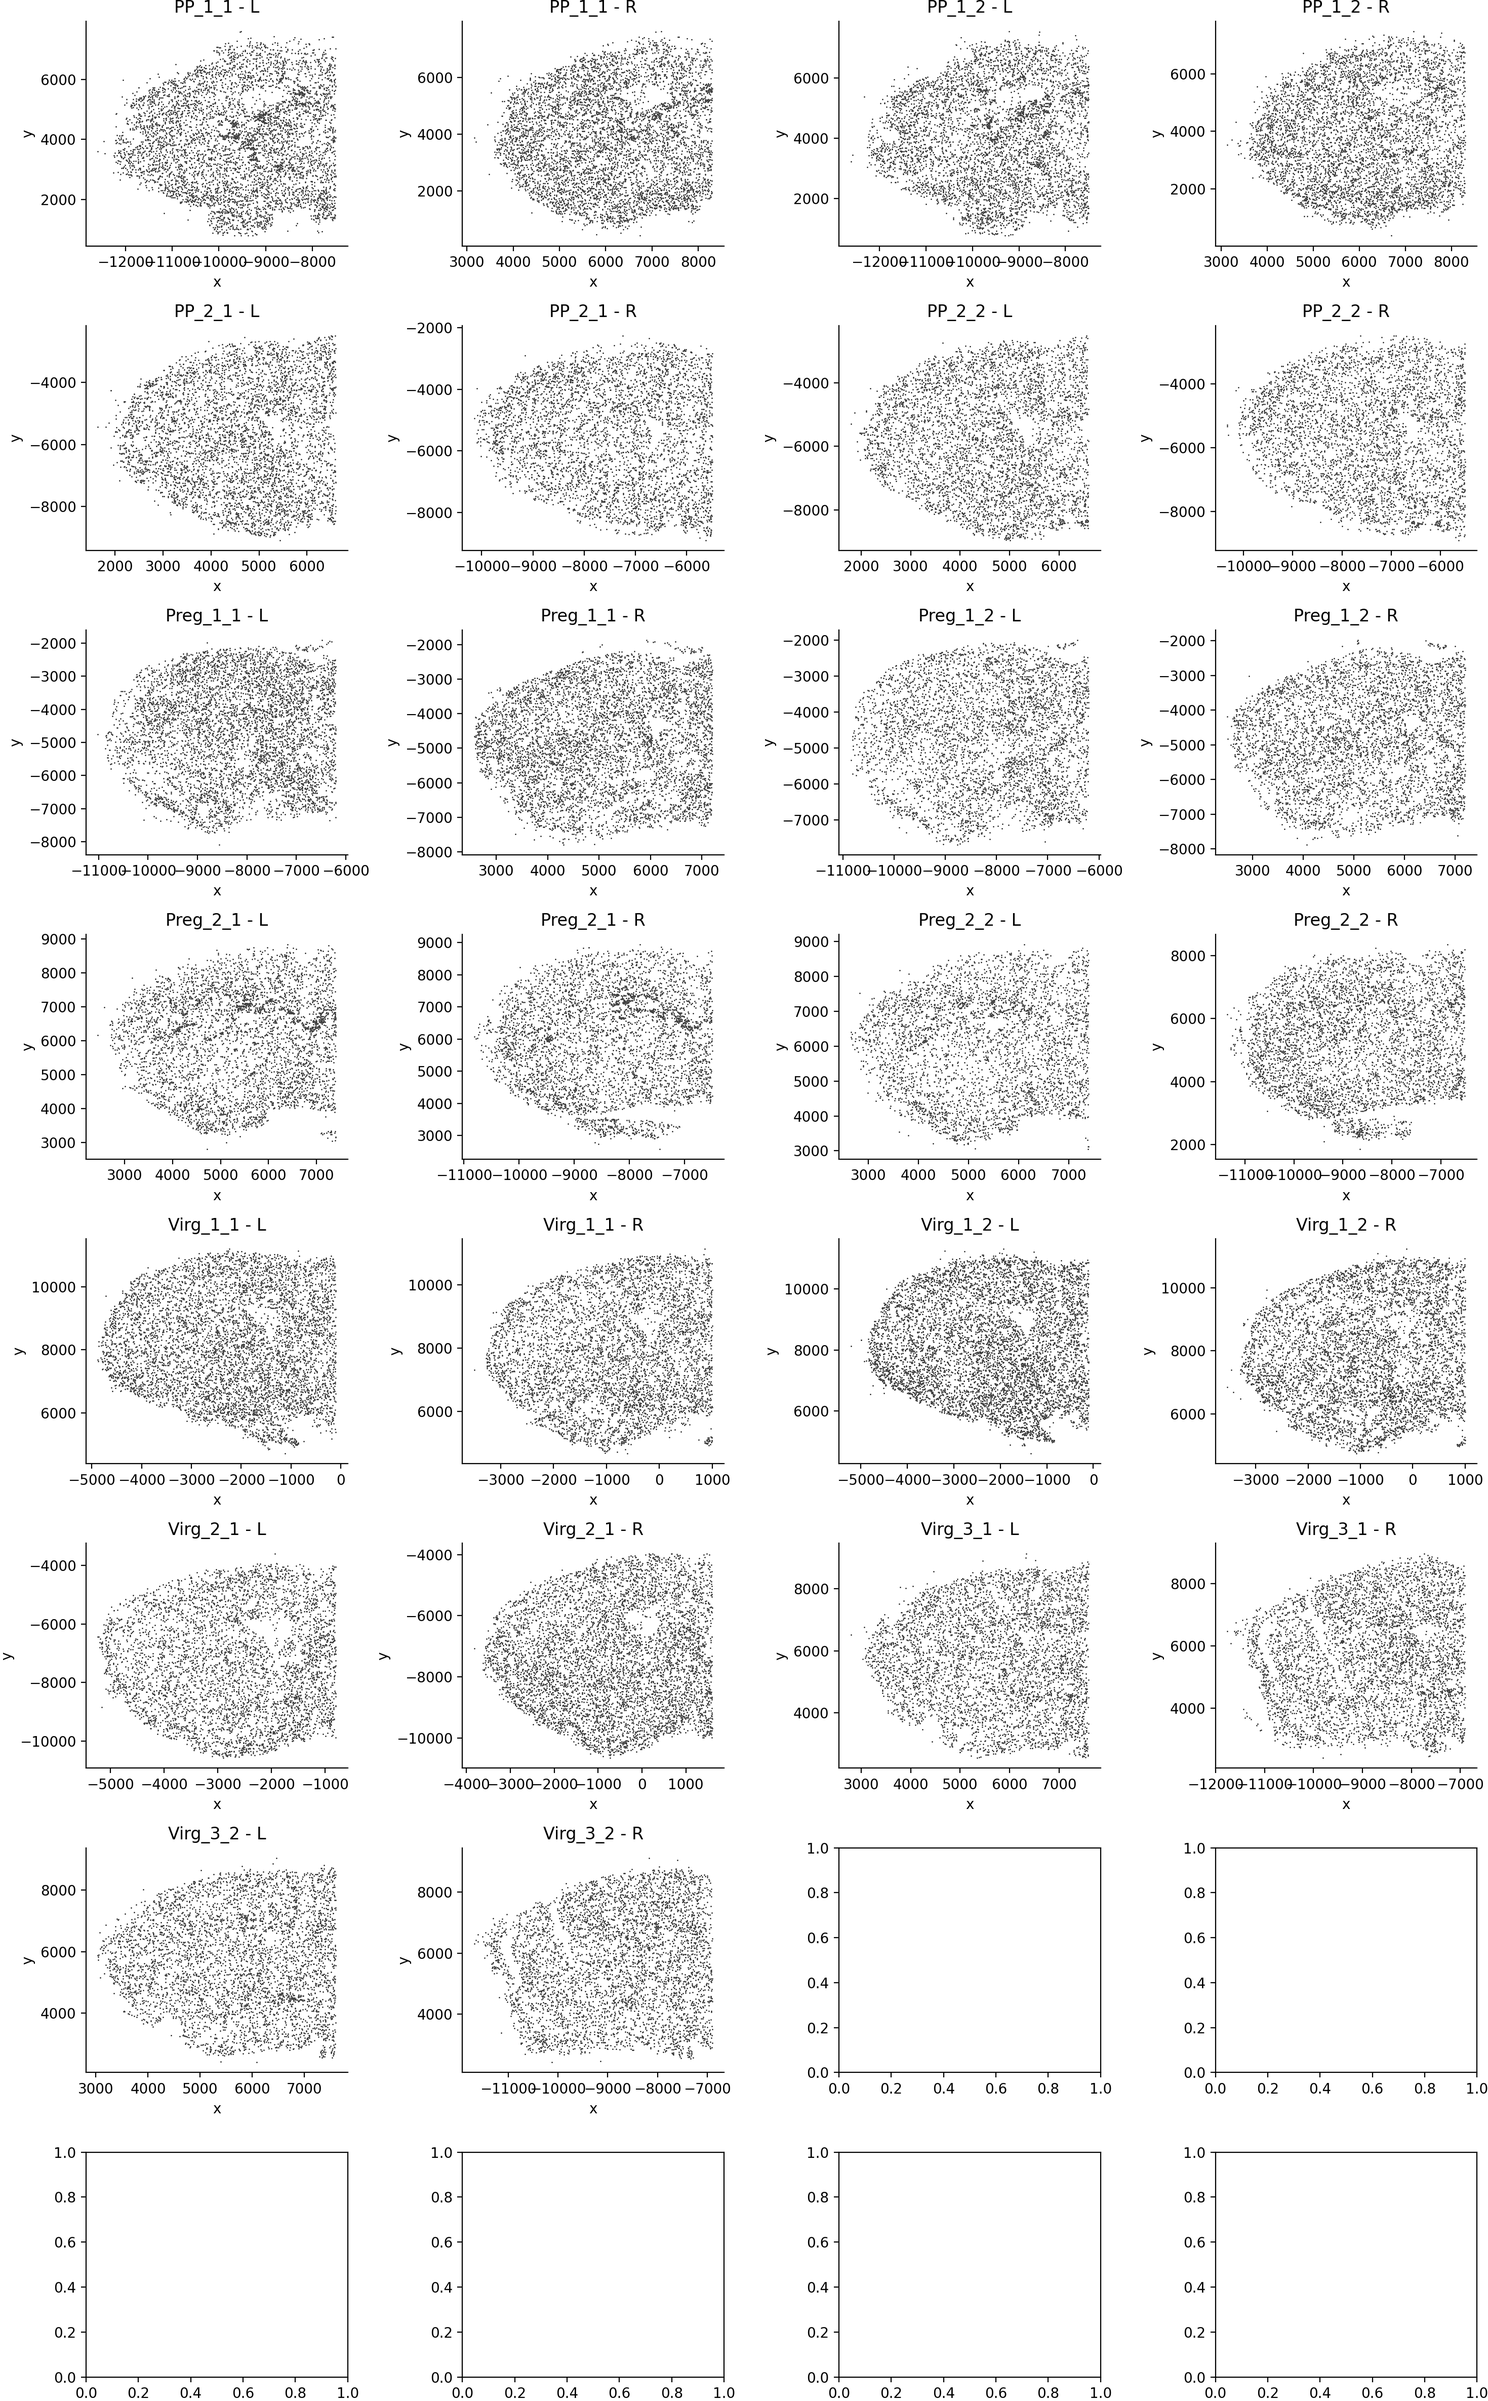
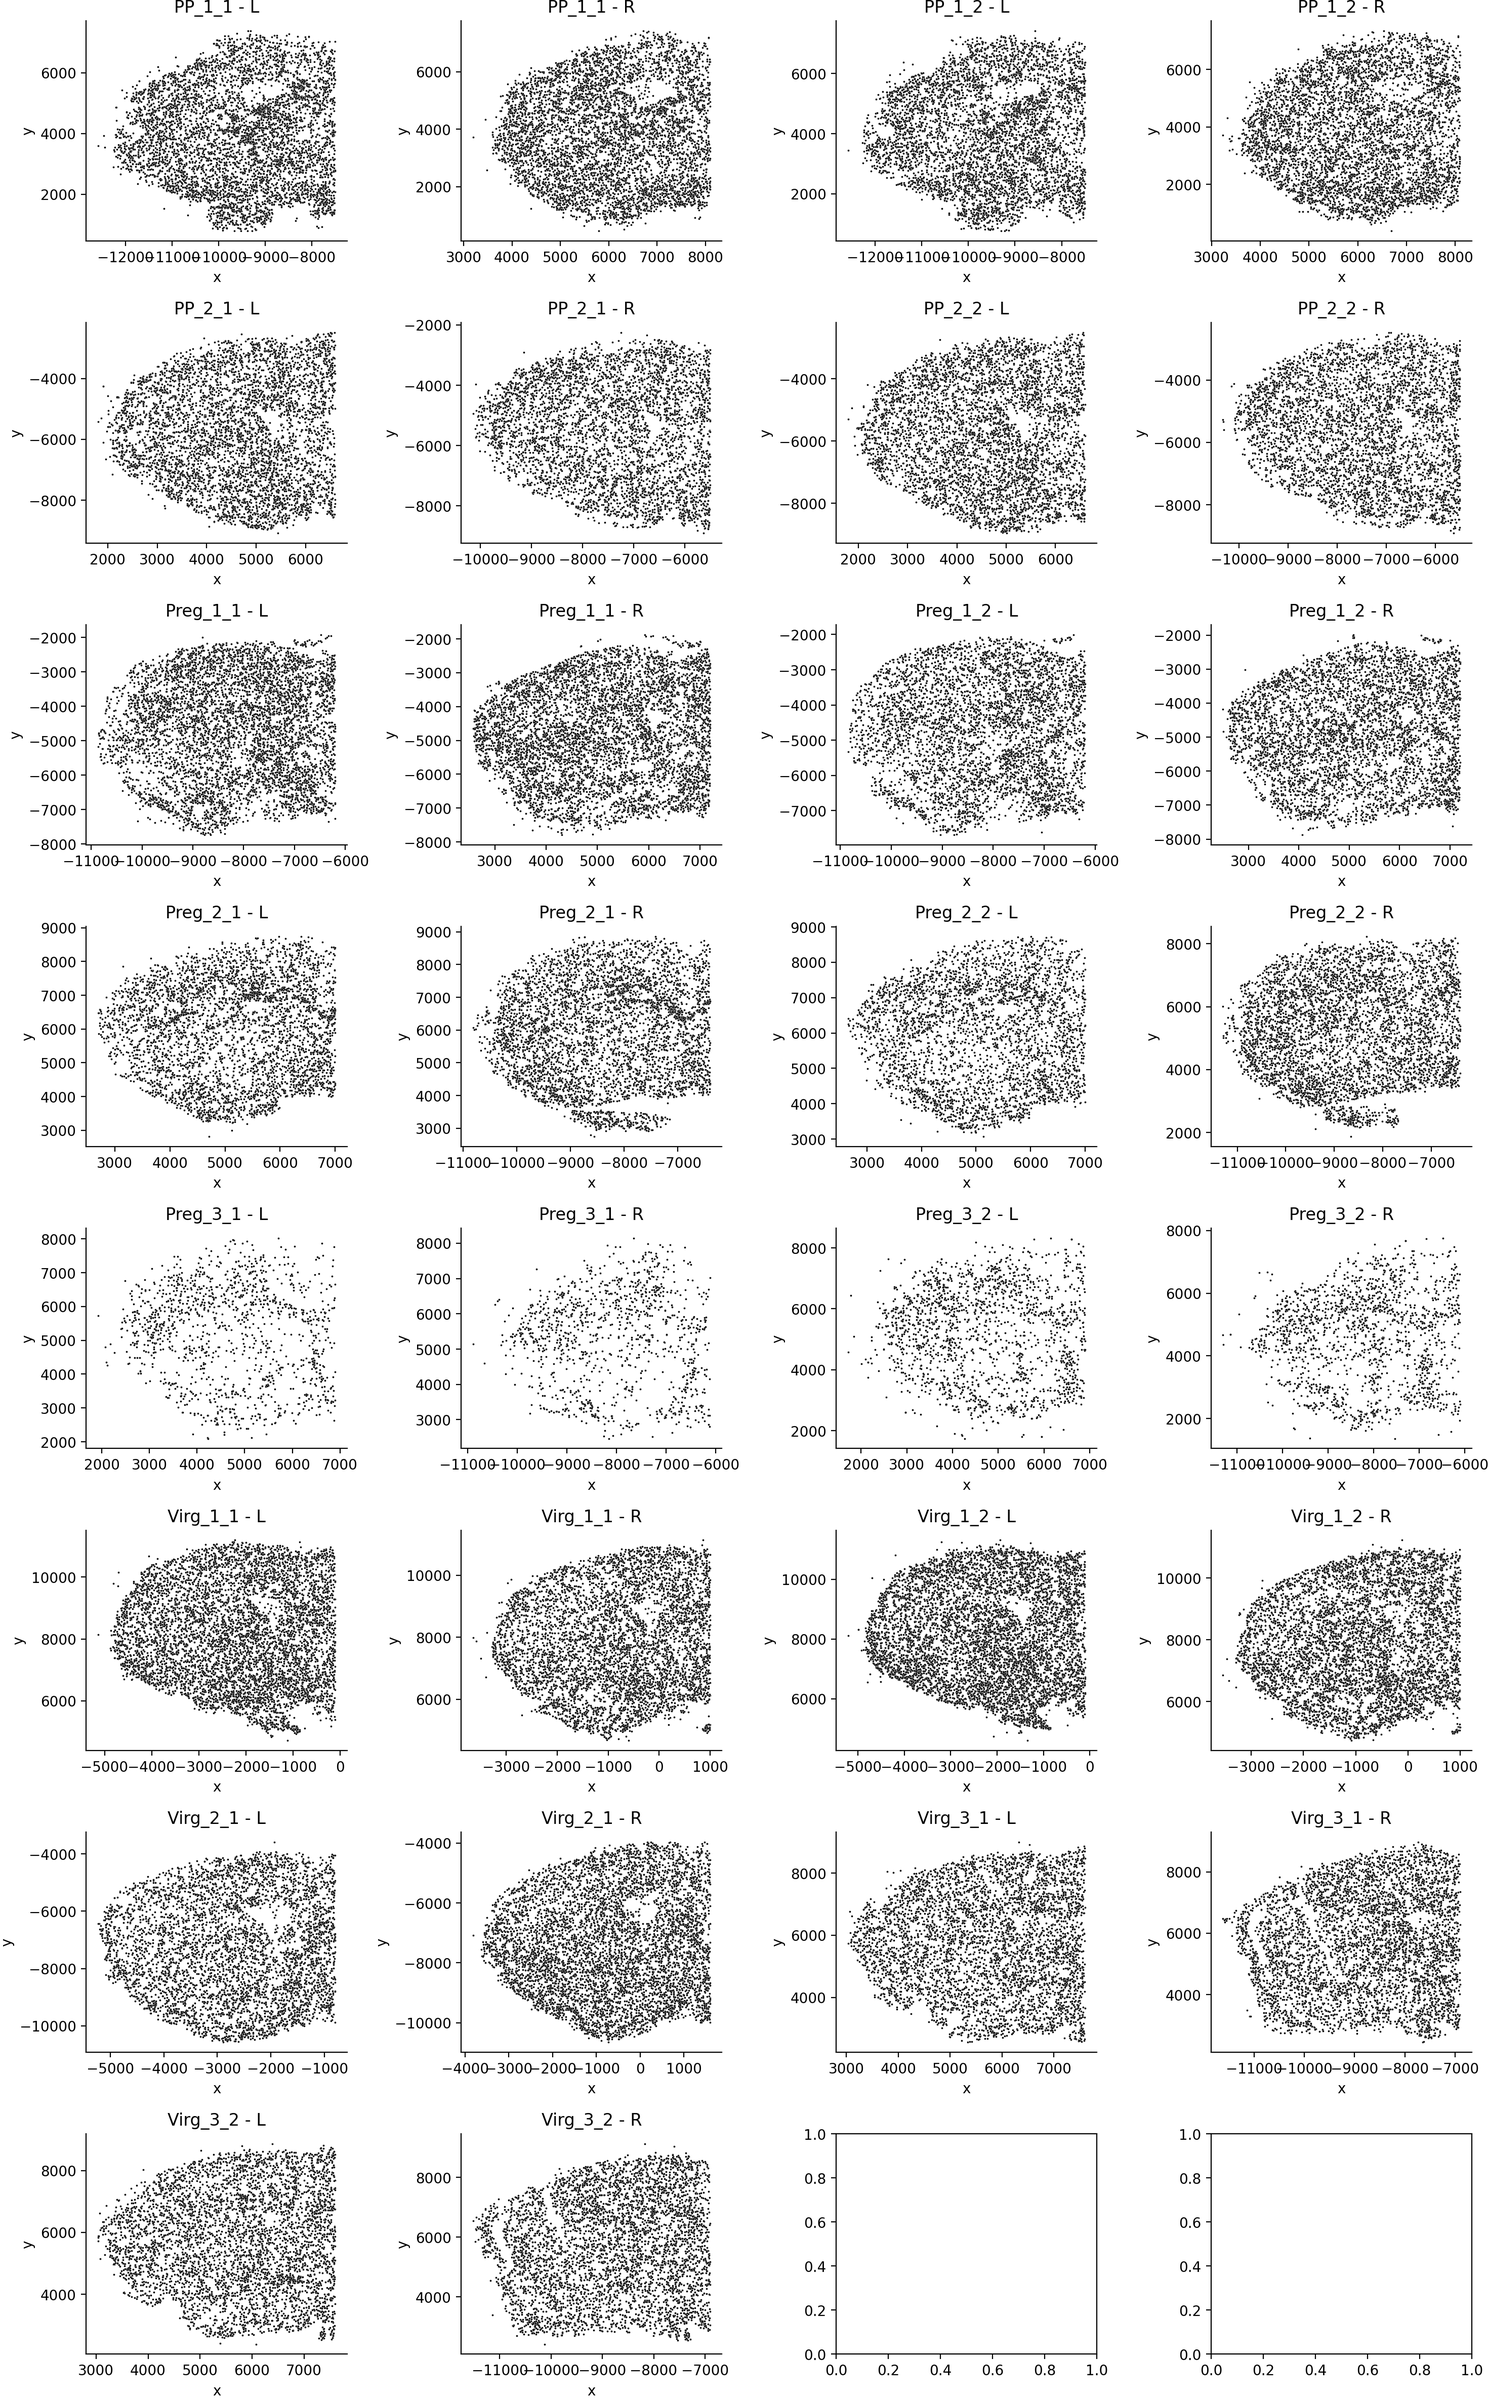
update

diff --git a/curio_cast_analyses.py b/curio_cast_analyses.py
@@ -33,17 +33,19 @@ def rotate_and_crop(points, angle, x_min=None, x_max=None, mirror_y=False):
 # rotation and cropping parameters for each sample
 sample_names = [
     'PP_1_1', 'PP_1_2', 'PP_2_1', 'PP_2_2', 
-    'Preg_1_1', 'Preg_1_2', 'Preg_2_1', 'Preg_2_2',
+    'Preg_1_1', 'Preg_1_2', 'Preg_2_1', 'Preg_2_2', 'Preg_3_1', 'Preg_3_2',
     'Virg_1_1', 'Virg_1_2', 'Virg_2_1', 'Virg_3_1', 'Virg_3_2'] 
 params = {
-    'PP_1_1': {'L': (-110, -7500), 'R': (-110, -8300)},
-    'PP_1_2': {'L': (-110, -7500), 'R': (-110, -8300)},
+    'PP_1_1': {'L': (-110, -7500), 'R': (-110, -8100)},
+    'PP_1_2': {'L': (-110, -7500), 'R': (-110, -8100)},
     'PP_2_1': {'L': (90, 6600), 'R': (90, 5500)},
     'PP_2_2': {'L': (90, 6600), 'R': (90, 5500)},
     'Preg_1_1': {'L': (180, -6200), 'R': (180, -7200)}, 
     'Preg_1_2': {'L': (180, -6200), 'R': (180, -7200)},
-    'Preg_2_1': {'L': (5, 7400), 'R': (5, 6500)},
-    'Preg_2_2': {'L': (5, 7400), 'R': (10, 6500)},
+    'Preg_2_1': {'L': (5, 7000), 'R': (5, 6400)},
+    'Preg_2_2': {'L': (5, 7000), 'R': (10, 6400)},
+    'Preg_3_1': {'L': (5, 6900), 'R': (5, 6100)},
+    'Preg_3_2': {'L': (5, 6900), 'R': (10, 6100)},
     'Virg_1_1': {'L': (-55, -100), 'R': (-55, -1000)},
     'Virg_1_2': {'L': (-55, -100), 'R': (-55, -1000)},
     'Virg_2_1': {'L': (140, -800), 'R': (140, -1600)},
@@ -62,10 +64,10 @@ ax_index = 0
 for sample in sample_names:
     adata = ad.read_h5ad(f'{data_dir}/raw-h5ad/{sample}.h5ad')
     coords = adata.obs[['SPATIAL_1', 'SPATIAL_2']]
-    if sample in ['Virg_1_1', 'Virg_1_2']:
-        outliers = DBSCAN(eps=500, min_samples=150).fit(coords) 
+    if sample in ['Preg_3_1', 'Preg_3_2']:
+        outliers = DBSCAN(eps=800, min_samples=90).fit(coords) 
     else:
-        outliers = DBSCAN(eps=500, min_samples=90).fit(coords) 
+        outliers = DBSCAN(eps=500, min_samples=110).fit(coords) 
 
     for hemi in ['L', 'R']:
         angle, value = params[sample][hemi]
@@ -82,10 +84,10 @@ for sample in sample_names:
             if ax.figure == fig1:
                 sns.scatterplot(
                     data=coords_rotated[outliers_labels_subset == -1],
-                    x='x', y='y', color='blue', s=1, ax=ax)
+                    x='x', y='y', color='blue', s=2, ax=ax)
             sns.scatterplot(
                 data=coords_rotated[outliers_labels_subset != -1],
-                x='x', y='y', color='black', s=1, ax=ax)
+                x='x', y='y', color='black', s=2, ax=ax)
         ax_index += 1
             
         adata_hemi = adata[mask][outliers_labels_subset != -1]
@@ -176,9 +178,7 @@ else:
     path = 'projects/def-wainberg/karbabi/spatial-pregnancy-postpart/'
     sce = readRDS(paste0(path, 'output/curio/data/adata_query.rds'))
     sce = scDblFinder(sce, samples='sample', BPPARAM=MulticoreParam())
-    table(sce$scDblFinder.class)
-    # singlet doublet 
-    # 125175   11748 
+    print(table(sce$scDblFinder.class, sce$sample))
     coldata = as.data.frame(colData(sce))
     ''')
     coldata = to_py('coldata', format='pandas')
@@ -222,21 +222,21 @@ adata_query.obs['outlier'] = (
     is_outlier(adata_query, 'log1p_n_genes_by_counts', 5) |
     is_outlier(adata_query, 'pct_counts_in_top_20_genes', 5))
 adata_query.obs.outlier.value_counts()
-# False    136346
-# True        577
+# False    141114
+# True        601
 
 adata_query.obs['mt_outlier'] = (
-    is_outlier(adata_query, 'pct_counts_mt', 3) | 
-    (adata_query.obs['pct_counts_mt'] > 10))
+    is_outlier(adata_query, 'pct_counts_mt', 5) | 
+    (adata_query.obs['pct_counts_mt'] > 15))
 adata_query.obs.mt_outlier.value_counts()
-# False    129880
-# True       7043
+# False    134178
+# True       7537
 
 adata_query.obs['doublet_outlier'] = is_outlier(
     adata_query, 'scDblFinder.score', 5)
 adata_query.obs.doublet_outlier.value_counts()
-# False    135077
-# True       1846
+# False    140026
+# True       1689
 
 # filter to thresholds
 print(f'total number of cells: {adata_query.n_obs}')
@@ -246,8 +246,8 @@ adata_query = adata_query[
     (~adata_query.obs.doublet_outlier)].copy()
 print(f'number of cells after filtering of low quality cells: '
       f'{adata_query.n_obs}')
-# total number of cells: 136923
-# number of cells after filtering of low quality cells: 127739
+# total number of cells: 141715
+# number of cells after filtering of low quality cells: 132183
 
 # plot after filtering
 sc.pl.scatter(
@@ -450,6 +450,9 @@ for sample in sorted(query_reference_list.keys()):
         query_reference_list[sample], params_dist, rescale=True)
     print(coords_final[sample])
 
+# coords_final = torch.load(
+#     f'{working_dir}/output/curio/data/coords_final.pt')
+
 # add final coords to anndata object 
 sample_names = sorted(list(coords_final.keys()))
 cell_index = adata_comb.obs.index[adata_comb.obs['source'] == 'curio']
@@ -606,8 +609,8 @@ for _, (source_sample, target_sample) in source_target_list.items():
 # with open(f'{working_dir}/output/curio/data/list_ts.pickle', 'wb') as f:
 #     pickle.dump(list_ts, f)
     
-with open(f'{working_dir}/output/curio/data/list_ts.pickle', 'rb') as f:
-    list_ts = pickle.load(f)
+# with open(f'{working_dir}/output/curio/data/list_ts.pickle', 'rb') as f:
+#     list_ts = pickle.load(f)
 
 # transfer cell type and region labels
 new_obs_list = []
@@ -656,17 +659,15 @@ adata_query_i = adata_comb[adata_comb.obs['source'] == 'curio'].copy()
 adata_query = adata_query[adata_query_i.obs_names]
 
 cols_to_keep = [
-    'SPATIAL_1', 'SPATIAL_2', 'n_genes_by_counts',
+    'cell_id', 'SPATIAL_1', 'SPATIAL_2', 'n_genes_by_counts',
     'log1p_n_genes_by_counts', 'total_counts', 'log1p_total_counts',
-    'pct_counts_in_top_10_genes', 'pct_counts_in_top_20_genes',
-    'pct_counts_in_top_50_genes', 'pct_counts_in_top_100_genes',
+    'pct_counts_in_top_20_genes',
     'scDblFinder.sample', 'scDblFinder.class', 'scDblFinder.score',
     'scDblFinder.weighted', 'scDblFinder.cxds_score', 'total_counts_mt',
     'log1p_total_counts_mt', 'pct_counts_mt'
 ]
 adata_query.obs = pd.concat([
     adata_query_i.obs, adata_query.obs[cols_to_keep]], axis=1)
-adata_query.X = adata_query.layers['counts']
 
 # save
 del adata_query.layers['counts']; del adata_query.uns
@@ -813,7 +814,7 @@ adata_comb = ad.read_h5ad(
     f'{working_dir}/output/curio/data/adata_comb_cast_project.h5ad')
 
 sample_data = adata_comb.obs[
-    adata_comb.obs['source'] == 'curio']['sample'].unique()[0]
+    adata_comb.obs['source'] == 'curio']['sample'].unique()[2]
 plot_df = adata_comb.obs[adata_comb.obs['sample'] == sample_data]
 fig, ax = plt.subplots(figsize=(8, 8))
 ax.scatter(plot_df['x_final'], plot_df['y_final'], c='grey', s=1)
@@ -867,31 +868,7 @@ plt.savefig(f'{working_dir}/figures/curio/exemplar_{col}.png',
             dpi=200, bbox_inches='tight')
 
 
-selected_sample = 'PP_1_1_L'
-ref_data = adata_comb[adata_comb.obs['source'] == 'Zeng-ABCA-Reference']
-sample_data = adata_comb[adata_comb.obs['sample'] == selected_sample]
-
-fig, axs = plt.subplots(1, 4, figsize=(18, 6))
-axs = axs.flatten()
-for idx, ref_sample in enumerate(ref_data.obs['sample'].unique()):
-    ref_sample_data = ref_data[ref_data.obs['sample'] == ref_sample]
-    sns.scatterplot(data=ref_sample_data.obs, x='x', y='y', 
-                    color='lightgray', s=1, ax=axs[idx])
-    sns.scatterplot(data=sample_data.obs, x='x_final', y='y_final', 
-                    color='red', s=3, ax=axs[idx])
-    axs[idx].set_title(f'{ref_sample}')
-    axs[idx].axis('equal')
-    axs[idx].set_xticks([])
-    axs[idx].set_yticks([])
-    axs[idx].set_xlabel('')
-    axs[idx].set_ylabel('')
-plt.suptitle(f'{selected_sample} overlaid on reference samples', fontsize=16)
-plt.tight_layout()
-plt.savefig(f'{working_dir}/figures/curio/{selected_sample}_overlay.png', dpi=300)
-plt.close()
-
-
-col = 'cosine_knn_cdist'
+col = 'cosine_knn_physical_dist'
 samples = query_obs['sample'].unique()
 n_cols, n_rows = 6, (len(samples) + 5) // 6
 

diff --git a/other_analyses.py b/other_analyses.py
@@ -1,0 +1,122 @@
+import sys, scipy
+import polars as pl
+import matplotlib.pyplot as plt
+sys.path.append('/home/karbabi/projects/def-wainberg/karbabi/utils')
+
+from single_cell import SingleCell, options
+options(num_threads=-1, seed=42)
+
+working_dir = '/home/karbabi/projects/def-wainberg/karbabi/' \
+    'spatial-pregnancy-postpart'
+
+sc_ref = SingleCell(
+    'projects/def-wainberg/single-cell/ABC/h5ad/combined_10Xv3.h5ad')
+
+sc_query = SingleCell(
+    f'{working_dir}/output/data/adata_query_curio_final.h5ad')\
+    .qc(allow_float=True)
+
+sc_query = sc_query\
+    .hvg(allow_float=True)\
+    .normalize(allow_float=True)\
+    .PCA()\
+    .neighbors()\
+    .embed()
+
+sc_query.plot_embedding(
+    color_column='class', 
+    filename=f'{working_dir}/figures/curio/umap_class.png',
+    cells_to_plot_column=None,
+    legend_kwargs={
+        'fontsize': 7,
+        'loc': 'center left'},
+    savefig_kwargs={'dpi': 600})
+
+sc_query.save(f'{working_dir}/output/data/adata_query_curio_final_filt.h5ad',
+              overwrite=True)
+
+
+
+
+
+
+
+
+
+
+
+
+
+
+
+
+mmc = pl.read_csv(
+    f'{working_dir}/output/curio/data/curio_mmc_corr_annotations.csv')
+sc_ref = SingleCell(
+    f'{working_dir}/output/data/adata_ref_zeng_imputed.h5ad')\
+    .with_uns(QCed=True)\
+    .with_uns(normalized=True)\
+    .filter_obs(pl.col.brain_section_label_x.is_in([
+        'C57BL6J-638850.49', 'C57BL6J-638850.48', 
+        'C57BL6J-638850.47', 'C57BL6J-638850.46']))
+
+
+
+sc_query = SingleCell(
+    f'{working_dir}/output/data/adata_query_curio_positioned_final.h5ad')\
+    .with_uns(QCed=True)\
+    .with_uns(normalized=False)\
+    .filter_var(pl.col.gene.is_in(sc_ref.var['gene_symbol']))\
+    .join_obs(mmc, left_on='_index', right_on='cell_id')
+
+
+mdr = 0.05
+mlfc = 1.2
+
+query_cast_markers = sc_query.find_markers(
+    cell_type_column='subclass',
+    all_genes=True)\
+    .cast({'cell_type': pl.String})\
+    .filter((pl.col.detection_rate > mdr) & (pl.col.fold_change > mlfc))
+
+query_mmc_markers = sc_query.find_markers(
+    cell_type_column='subclass_right',
+    all_genes=True)\
+    .cast({'cell_type': pl.String})\
+    .filter((pl.col.detection_rate > mdr) & (pl.col.fold_change > mlfc))
+
+ref_markers = sc_ref.find_markers(
+    cell_type_column='subclass',
+    all_genes=True)\
+    .cast({'cell_type': pl.String})\
+    .filter((pl.col.detection_rate > mdr) & (pl.col.fold_change > mlfc))
+
+matched_markers = ref_markers.join(
+    query_cast_markers, 
+    on=['cell_type', 'gene'], 
+    how='inner')
+
+print('corr ref vs query cast')
+print(matched_markers.shape[0])
+print(scipy.stats.spearmanr(
+    matched_markers['fold_change'], 
+    matched_markers['fold_change_right']))
+
+# corr ref vs query cast
+# 13879
+# SignificanceResult(statistic=0.2965941996495267, pvalue=7.723594458794918e-280)
+
+matched_markers = ref_markers.join(
+    query_mmc_markers, 
+    on=['cell_type', 'gene'], 
+    how='inner')
+
+print('corr ref vs query mmc')
+print(matched_markers.shape[0])
+print(scipy.stats.spearmanr(
+    matched_markers['fold_change'], 
+    matched_markers['fold_change_right']))
+
+# corr ref vs query mmc
+# 15600
+# SignificanceResult(statistic=0.3865836709477447, pvalue=0.0)

diff --git a/merfish_cast_analyses.py b/merfish_cast_analyses.py
@@ -699,11 +699,13 @@ import anndata as ad
 import matplotlib.pyplot as plt
 import seaborn as sns
 
-working_dir = 'projects/def-wainberg/karbabi/spatial-pregnancy-postpart'
+from pathlib import Path
+working_dir = f'{Path.home()}/projects/def-wainberg/karbabi/' \
+ 'spatial-pregnancy-postpart'
 
 # load data 
 ref_obs = ad.read_h5ad(
-    f'{working_dir}/output/data/adata_ref_final_merfish.h5ad').obs
+    f'{working_dir}/output/data/adata_ref_final.h5ad').obs
 query_obs = ad.read_h5ad(
     f'{working_dir}/output/data/adata_query_merfish_final.h5ad').obs
 
@@ -724,14 +726,12 @@ def create_multi_sample_plot(ref_obs, query_obs, col, cell_type, output_dir):
         plot_df = obs[obs['sample'] == sample]
         mask = plot_df[col] == cell_type
         if mask.sum() > 0:
-            # Plot background cells
             ax.scatter(
                 plot_df[~mask][coord_cols[0]], plot_df[~mask][coord_cols[1]], 
-                c='grey', s=1, alpha=0.1)
-            # Plot cells of interest with individual colors
+                c='grey', s=0.1, alpha=0.1)
             ax.scatter(
                 plot_df[mask][coord_cols[0]], plot_df[mask][coord_cols[1]], 
-                c=plot_df[mask][f'{col}_color'], s=1 if obs is ref_obs else 3)
+                c=plot_df[mask][f'{col}_color'], s=0.8)
         else:
             ax.text(0.5, 0.5, 'no cells of this type', ha='center', 
                     va='center', transform=ax.transAxes)
@@ -743,7 +743,7 @@ def create_multi_sample_plot(ref_obs, query_obs, col, cell_type, output_dir):
         fig.delaxes(ax)
     plt.tight_layout()
     safe_filename = cell_type.replace('/', '_').replace(' ', '_')
-    plt.savefig(f'{output_dir}/{safe_filename}.png', dpi=200, 
+    plt.savefig(f'{output_dir}/{safe_filename}.png', dpi=100, 
                 bbox_inches='tight')
     plt.close(fig)
 
